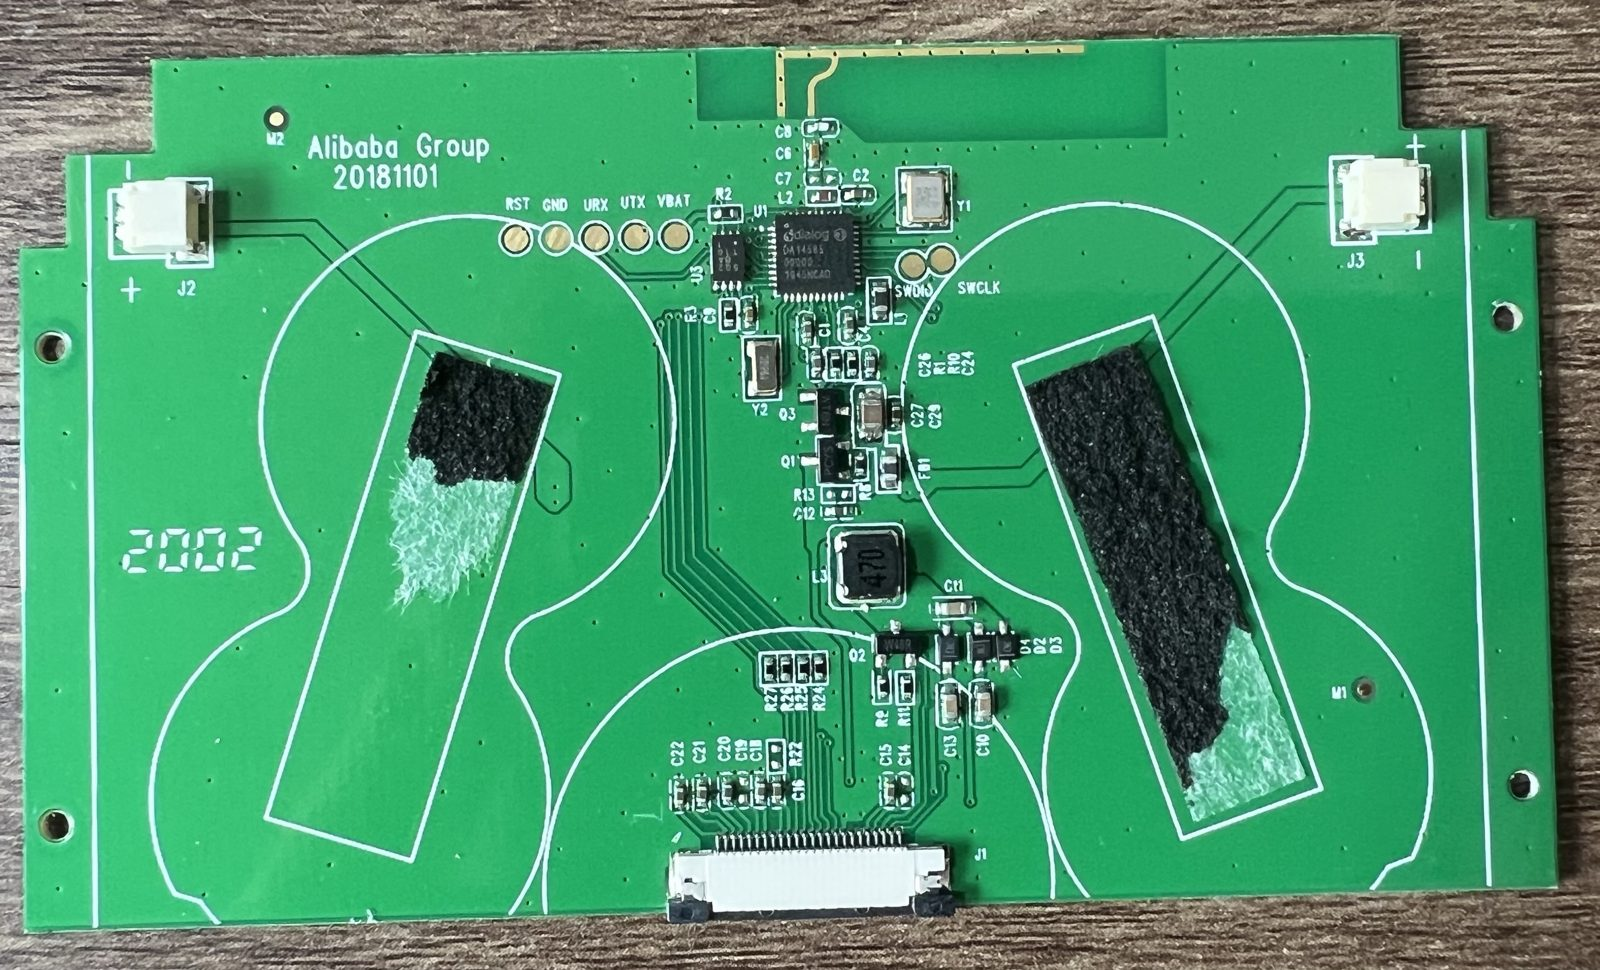
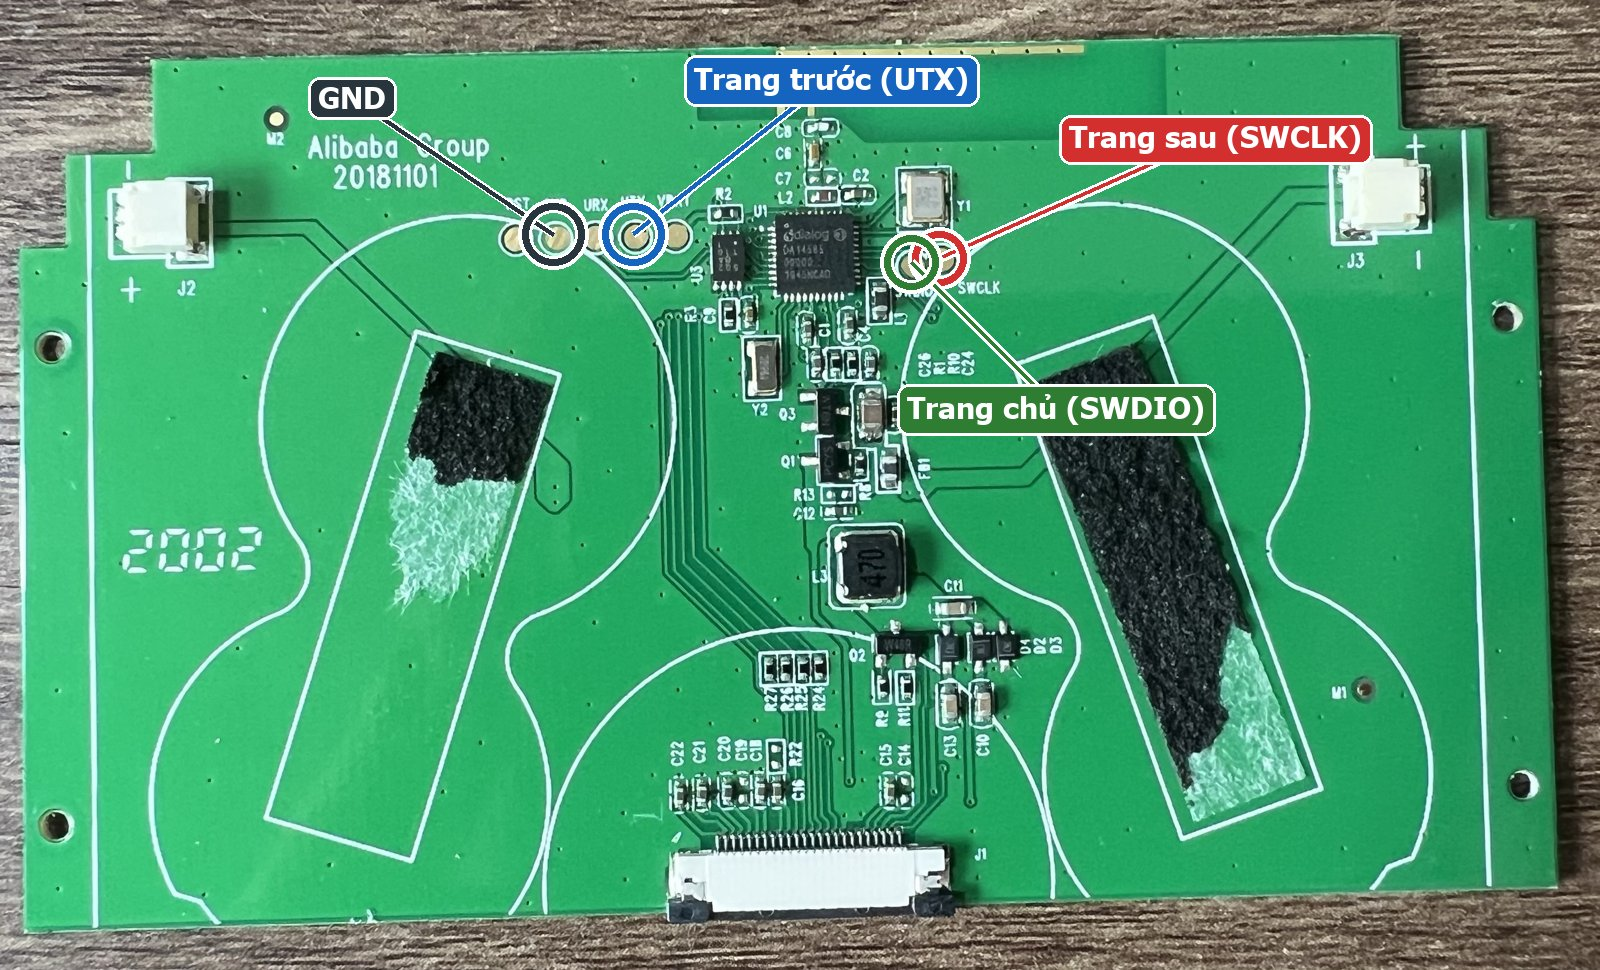
reader: anh han nut da nuong chu thich (de nhin hon)

diff --git a/reader/index.html b/reader/index.html
@@ -203,52 +203,19 @@
 					Chân trùng với chân màn hình sẽ bị firmware <b>tự tắt</b>; SWCLK/SWDIO dùng được vì build đã tắt debug SWD
 					(đừng đè nút khi đang nạp firmware bằng J-Link).
 				</p>
-				<p style="margin:8px 0 4px">
-					<b>Chú giải màu:</b>
-					<span style="color:#d32f2f;font-weight:bold">● Trang sau (SWCLK)</span> —
-					<span style="color:#1565c0;font-weight:bold">● Trang trước (TX)</span> —
-					<span style="color:#2e7d32;font-weight:bold">● Trang chủ (SWDIO)</span> —
-					<span style="color:#37474f;font-weight:bold">● GND (dây chung của cả 3 nút)</span>
-				</p>
+				<!-- Chú thích được NƯỚNG THẲNG vào ảnh (img/annotate.py — vòng khoanh
+				     viền trắng + đường chỉ + hộp nhãn, tọa độ đo từ ảnh gốc). Đổi ảnh
+				     board: chạy lại annotate.py với 2 ảnh gốc mới. -->
 				<div style="display:flex;flex-wrap:wrap;gap:12px;margin-top:6px">
-					<!-- Board kiểu 1: Alibaba Group 20181101 — hàng 5 pad RST GND URX UTX VBAT
-					     + hàng 2 pad SWDIO/SWCLK cạnh phải MCU. Tọa độ % ĐO TỪ ẢNH GỐC,
-					     đã kiểm bằng ảnh vẽ thử (check_v1.jpg) -->
-					<figure style="position:relative;flex:1 1 380px;max-width:640px;margin:0">
+					<figure style="flex:1 1 380px;max-width:680px;margin:0">
 						<img src="img/board_6tp_v1.jpg" style="width:100%;display:block;border-radius:6px"
 							alt="[Thiếu ảnh img/board_6tp_v1.jpg — board Alibaba 20181101]">
-						<!-- GND = pad thứ 2 từ trái, hàng 5 chân -->
-						<span style="position:absolute;left:34.6%;top:24.2%;width:3%;aspect-ratio:1;transform:translate(-50%,-50%);border:3px solid #37474f;border-radius:50%"></span>
-						<span style="position:absolute;left:31%;top:12%;transform:translate(-50%,0);background:#37474f;color:#fff;padding:1px 6px;border-radius:8px;font-size:11px;white-space:nowrap">GND ▼</span>
-						<!-- TX = pad UTX (thứ 4 từ trái, hàng 5 chân) -->
-						<span style="position:absolute;left:39.6%;top:24.2%;width:3%;aspect-ratio:1;transform:translate(-50%,-50%);border:3px solid #1565c0;border-radius:50%"></span>
-						<span style="position:absolute;left:43%;top:12%;transform:translate(-50%,0);background:#1565c0;color:#fff;padding:1px 6px;border-radius:8px;font-size:11px;white-space:nowrap">Trang trước ▼ (UTX)</span>
-						<!-- SWDIO = pad TRÁI của hàng 2 chân -->
-						<span style="position:absolute;left:57.0%;top:27.1%;width:2.6%;aspect-ratio:1;transform:translate(-50%,-50%);border:3px solid #2e7d32;border-radius:50%"></span>
-						<span style="position:absolute;left:55%;top:37%;transform:translate(-60%,0);background:#2e7d32;color:#fff;padding:1px 6px;border-radius:8px;font-size:11px;white-space:nowrap">▲ Trang chủ (SWDIO)</span>
-						<!-- SWCLK = pad PHẢI cạnh SWDIO -->
-						<span style="position:absolute;left:58.7%;top:26.7%;width:2.6%;aspect-ratio:1;transform:translate(-50%,-50%);border:3px solid #d32f2f;border-radius:50%"></span>
-						<span style="position:absolute;left:62%;top:15%;transform:translate(-20%,0);background:#d32f2f;color:#fff;padding:1px 6px;border-radius:8px;font-size:11px;white-space:nowrap">Trang sau ▼ (SWCLK)</span>
-						<figcaption style="font-size:12px;margin-top:4px">Board «Alibaba Group 20181101»: GND = pad thứ 2, TX = pad ghi <b>UTX</b> (thứ 4) trong hàng 5 chân; hàng 2 chân cạnh MCU: <b>SWDIO bên trái</b>, <b>SWCLK bên phải</b>.</figcaption>
+						<figcaption style="font-size:12px;margin-top:4px">Board «Alibaba Group 20181101»: GND = pad thứ 2, Trang trước = pad <b>UTX</b> (thứ 4) trong hàng 5 chân; hàng 2 chân cạnh MCU: <b>SWDIO bên trái = Trang chủ</b>, <b>SWCLK bên phải = Trang sau</b>.</figcaption>
 					</figure>
-					<!-- Board kiểu 2: BZT06629 — hàng 6 pad TP4 TP2 TP8 TP7 TP1 TP3
-					     + TP5/TP6 dưới thạch anh. Tọa độ đã kiểm (check_v2.jpg) -->
-					<figure style="position:relative;flex:1 1 380px;max-width:640px;margin:0">
+					<figure style="flex:1 1 380px;max-width:680px;margin:0">
 						<img src="img/board_6tp_v2.jpg" style="width:100%;display:block;border-radius:6px"
 							alt="[Thiếu ảnh img/board_6tp_v2.jpg — board BZT06629]">
-						<!-- GND = TP2 (thứ 2 từ trái, hàng 6 chân) -->
-						<span style="position:absolute;left:35.3%;top:24.0%;width:2.4%;aspect-ratio:1;transform:translate(-50%,-50%);border:3px solid #37474f;border-radius:50%"></span>
-						<span style="position:absolute;left:32%;top:13%;transform:translate(-50%,0);background:#37474f;color:#fff;padding:1px 6px;border-radius:8px;font-size:11px;white-space:nowrap">GND ▼ (TP2)</span>
-						<!-- TX = TP7 (thứ 4 từ trái, hàng 6 chân) -->
-						<span style="position:absolute;left:40.3%;top:24.2%;width:2.4%;aspect-ratio:1;transform:translate(-50%,-50%);border:3px solid #1565c0;border-radius:50%"></span>
-						<span style="position:absolute;left:45%;top:13%;transform:translate(-50%,0);background:#1565c0;color:#fff;padding:1px 6px;border-radius:8px;font-size:11px;white-space:nowrap">Trang trước ▼ (TP7)</span>
-						<!-- SWCLK = TP5 (dưới thạch anh, chân TRÊN) -->
-						<span style="position:absolute;left:57.9%;top:37.7%;width:2%;aspect-ratio:1;transform:translate(-50%,-50%);border:3px solid #d32f2f;border-radius:50%"></span>
-						<span style="position:absolute;left:61.5%;top:35%;background:#d32f2f;color:#fff;padding:1px 6px;border-radius:8px;font-size:11px;white-space:nowrap">◀ Trang sau (TP5)</span>
-						<!-- SWDIO = TP6 (ngay DƯỚI TP5) -->
-						<span style="position:absolute;left:58.3%;top:40.4%;width:2%;aspect-ratio:1;transform:translate(-50%,-50%);border:3px solid #2e7d32;border-radius:50%"></span>
-						<span style="position:absolute;left:61.5%;top:42%;background:#2e7d32;color:#fff;padding:1px 6px;border-radius:8px;font-size:11px;white-space:nowrap">◀ Trang chủ (TP6)</span>
-						<figcaption style="font-size:12px;margin-top:4px">Board «BZT06629»: GND = <b>TP2</b> (thứ 2), TX = <b>TP7</b> (thứ 4) trong hàng 6 chân; dưới thạch anh: <b>TP5 = Trang sau (SWCLK)</b>, <b>TP6 ngay dưới = Trang chủ (SWDIO)</b>.</figcaption>
+						<figcaption style="font-size:12px;margin-top:4px">Board «BZT06629»: GND = <b>TP2</b> (thứ 2), Trang trước = <b>TP7</b> (thứ 4) trong hàng 6 chân; dưới thạch anh: <b>TP5 = Trang sau</b>, <b>TP6 ngay dưới = Trang chủ</b>.</figcaption>
 					</figure>
 				</div>
 			</details>
